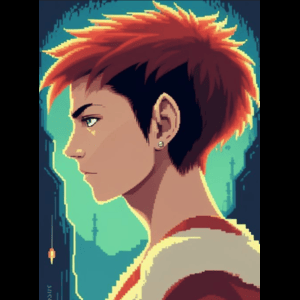
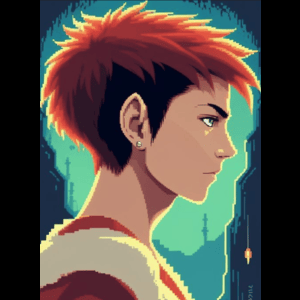
update profile

diff --git a/src/Entities/Characters/Movement.java b/src/Entities/Characters/Movement.java
@@ -2,6 +2,7 @@ package Entities.Characters;
 
 import Animations.PlayerAnimation;
 import Game.GameCamera;
+import Game.Handler;
 import Inputs.InputKeyboardManager;
 import Utils.DebugMode;
 import World.Tile;
@@ -34,18 +35,55 @@ public class Movement {
 
     private Character character;
 
-    public Movement(Character character) {
+    public Movement(Handler handler) {
+        camera = handler.getGameCamera();
+        keyManager = handler.getKeymanager();
+        System.out.println(camera + " " + keyManager);
+        speed = DEFAULT_SPEED;
+        xMove = 0;
+        yMove = 0;
+
+        setCharacter(new Kent());
+    }
+
+    public void tick() {
+        getInput();
+//        if (animation != null) {
+//            animation.tick();
+//        }
+//
+////        camera.centerOn(this);
+
+        if (xMove != 0 && !checkEntityCollisions(xMove, 0f)) {
+            moveX();
+        }
+        if (yMove != 0 && !checkEntityCollisions(0f, yMove)) {
+            moveY();
+        }
+    }
+
+    public void setCharacter(Character character) {
         this.character = character;
+        System.out.println("Setting character: " + character.getName());
         this.x = character.getX();
         this.y = character.getY();
         this.width = character.getWidth();
         this.height = character.getHeight();
         this.bounds = character.getBounds();
         this.animation = character.getAnimation();
+    }
 
-        speed = DEFAULT_SPEED;
-        xMove = 0;
-        yMove = 0;
+    public void render(Graphics g) {
+//        System.out.println("Rendering : " + character.getName());
+//        System.out.println("Camera: " + camera + " KeyManager: " + keyManager);
+
+        System.out.println("X: " + (x - camera.getxOffset()) + " Y: " + (y - camera.getyOffset()) + " Width: " + width + " Height: " + height);
+
+//        g.setColor(Color.red);
+//        g.drawRect((int) (x - camera.getxOffset()), (int) (y - camera.getyOffset()), width * SCALE, height * SCALE);
+
+//        g.drawImage(getCurrentAnimationFrame(), (int) (x - camera.getxOffset()),
+//                (int) (y - camera.getyOffset()), width * SCALE, height * SCALE, null);
     }
 
     private long lastKeyPress = 0;
@@ -170,20 +208,6 @@ public class Movement {
         return new Rectangle((int) (x + bounds.x + xOffset), (int) (y + bounds.y + yOffset), bounds.width, bounds.height);
     }
 
-    public void tick() {
-
-        getInput();
-        animation.tick();
-        camera.centerOn(this);
-
-        if (xMove != 0 && !checkEntityCollisions(xMove, 0f)) {
-            moveX();
-        }
-        if (yMove != 0 && !checkEntityCollisions(0f, yMove)) {
-            moveY();
-        }
-    }
-
     public void moveX() {
         if (xMove > 0) {
             collided = false;
@@ -235,32 +259,6 @@ public class Movement {
         }
     }
 
-    public void render(Graphics g) {
-//        System.out.println("Rendering : " + character.getName());
-//        System.out.println("Camera: " + camera + " KeyManager: " + keyManager);
-
-//        System.out.println("X: " + (x - camera.getxOffset()) + " Y: " + (y - camera.getyOffset()) + " Width: " + width + " Height: " + height);
-
-        g.setColor(Color.red);
-        g.drawRect((int) (x - camera.getxOffset()), (int) (y - camera.getyOffset()), width * SCALE, height * SCALE);
-
-//        g.drawImage(getCurrentAnimationFrame(), (int) (x - camera.getxOffset()),
-//                (int) (y - camera.getyOffset()), width * SCALE, height * SCALE, null);
-    }
-
-    public void setControllers(GameCamera camera, InputKeyboardManager keyManager) {
-        this.camera = camera;
-        this.keyManager = keyManager;
-//        System.out.println("Camera: " + camera + " KeyManager: " + keyManager);
-    }
-
-    public GameCamera getCamera() {
-        return camera;
-    }
-
-    public InputKeyboardManager getKeyManager() {
-        return keyManager;
-    }
 
     public float getX() {
         return x;

diff --git a/src/Entities/Characters/CharacterManager.java b/src/Entities/Characters/CharacterManager.java
@@ -4,16 +4,15 @@ package Entities.Characters;
 import Game.Handler;
 import Skills.Skill;
 
+import java.awt.*;
 import java.util.ArrayList;
 
 public class CharacterManager {
     private static ArrayList<Character> characters;
     private int currentCharacterIndex = 0;
-    private static Handler handler;
 
-    public CharacterManager(Handler handler) {
+    public CharacterManager() {
         characters = new ArrayList<>(4);
-        CharacterManager.handler = handler;
         addCharacter(new Kent());
         addCharacter(new Cedi());
         addCharacter(new Nathan());
@@ -21,12 +20,8 @@ public class CharacterManager {
     }
 
     private static void addCharacter(Character character) {
-//        character.getMovement().setCamera(handler.getGameCamera());
-//        character.getMovement().setKeyManager(handler.getKeymanager());
-        character.getMovement().setControllers(handler.getGameCamera(), handler.getKeymanager());
         characters.add(character);
     }
-
 
     public ArrayList<Character> getCharacters() {
         return characters;
@@ -57,7 +52,7 @@ public class CharacterManager {
             character.regenHealth();
             character.regenMana();
             // temporary fix
-            character.getMovement().setControllers(handler.getGameCamera(), handler.getKeymanager());
+//            character.getMovement().setControllers(handler.getGameCamera(), handler.getKeymanager());
 //            System.out.println("Character: " + character.getMovement().getCamera() + " " + character.getMovement().getKeyManager());
         }
     }

diff --git a/src/Entities/Characters/Character.java b/src/Entities/Characters/Character.java
@@ -11,8 +11,6 @@ import java.awt.*;
 import java.util.ArrayList;
 
 public abstract class Character extends Entity {
-
-    private final Movement movement;
     // Character only attributes
     protected Mana mana;
     protected Energy energy;
@@ -27,8 +25,6 @@ public abstract class Character extends Entity {
 
         this.spriteSheet = new SpriteSheet(ImageUtils.loadImage("/Player/Player_New/Player_Anim/Player_Idle_Run_Death_Anim.png"));
         this.animation = new PlayerAnimation(120, this.spriteSheet);
-
-        this.movement = new Movement(this);
         this.description = "A generic enemy";
 
         this.name = name;
@@ -54,16 +50,12 @@ public abstract class Character extends Entity {
 
     @Override
     public void tick() {
-        movement.tick();
+
     }
 
     @Override
     public void render(Graphics g) {
-        movement.render(g);
-    }
 
-    public Movement getMovement() {
-        return movement;
     }
 
     public double getDodgeRate() {

diff --git a/src/Components/Button/CharacterSelector.java b/src/Components/Button/CharacterSelector.java
@@ -61,7 +61,7 @@ public class CharacterSelector extends Button {
         g.fillRect(bounds.x + 10, bounds.y + 10, width - 20, height - 20);
 
         if (playerProfile != null) {
-            g.drawImage(playerProfile, bounds.x + 1, bounds.y + 8, width, height, null);
+            g.drawImage(playerProfile, bounds.x + 15, bounds.y + 15, width - 30, height - 30, null);
         }
 
         g.drawImage(buttonImage, bounds.x, bounds.y, width, height, null);

diff --git a/src/Components/Card/CharacterCard.java b/src/Components/Card/CharacterCard.java
@@ -53,7 +53,7 @@ public class CharacterCard extends Card {
         g.fillRect(bounds.x + (20 * scale), bounds.y + (4 * scale), 162, 10 * scale);
 
         if (playerProfile != null) {
-            g.drawImage(playerProfile, bounds.x + 1, bounds.y + 8, height + 4, height + 4, null);
+            g.drawImage(playerProfile, bounds.x + 12, bounds.y + 12, height - 26, height - 26, null);
         }
 
         if (player != null) {

diff --git a/src/Components/Button/CharacterButton.java b/src/Components/Button/CharacterButton.java
@@ -55,7 +55,7 @@ public class CharacterButton extends Button {
         };
 
         if (playerProfile != null) {
-            g.drawImage(playerProfile, bounds.x - 4, bounds.y + 2, width + 12, height + 12, null);
+            g.drawImage(playerProfile, bounds.x - 4, bounds.y + 2, width, height + 12, null);
         }
 
         g.drawImage(buttonImage, bounds.x, bounds.y, width, height, null);

diff --git a/src/Entities/Characters/Cedi.java b/src/Entities/Characters/Cedi.java
@@ -23,6 +23,9 @@ public class Cedi extends Character {
         this.addSkill(new ArcaneShield());
 
         this.spriteSheet = new SpriteSheet(ImageUtils.loadImage("/textures/Player_Idle_Run_Death_Anim.png"));
+
+        SpriteSheet profile = new SpriteSheet(ImageUtils.loadImage("/Player/Cedi/Profile.png"));
+        this.profileImage = profile.crop(0, 0, 300, 300);
     }
 
     @Override

diff --git a/src/Entities/Characters/Zeith.java b/src/Entities/Characters/Zeith.java
@@ -24,6 +24,9 @@ public class Zeith extends Character {
         this.addSkill(new Blessing());
 
         this.spriteSheet = new SpriteSheet(ImageUtils.loadImage("/textures/Player_Idle_Run_Death_Anim.png"));
+
+        SpriteSheet profile = new SpriteSheet(ImageUtils.loadImage("/Player/Zeith/Profile.png"));
+        this.profileImage = profile.crop(0, 0, 300, 300);
     }
 
     @Override

diff --git a/src/Entities/Characters/Nathan.java b/src/Entities/Characters/Nathan.java
@@ -23,6 +23,9 @@ public class Nathan extends Character {
         this.addSkill(new Evasion());
 
         this.spriteSheet = new SpriteSheet(ImageUtils.loadImage("/Player/Nathan/Character.png"));
+
+        SpriteSheet profile = new SpriteSheet(ImageUtils.loadImage("/Player/Nathan/Profile.png"));
+        this.profileImage = profile.crop(0, 0, 300, 300);
     }
 
     @Override
